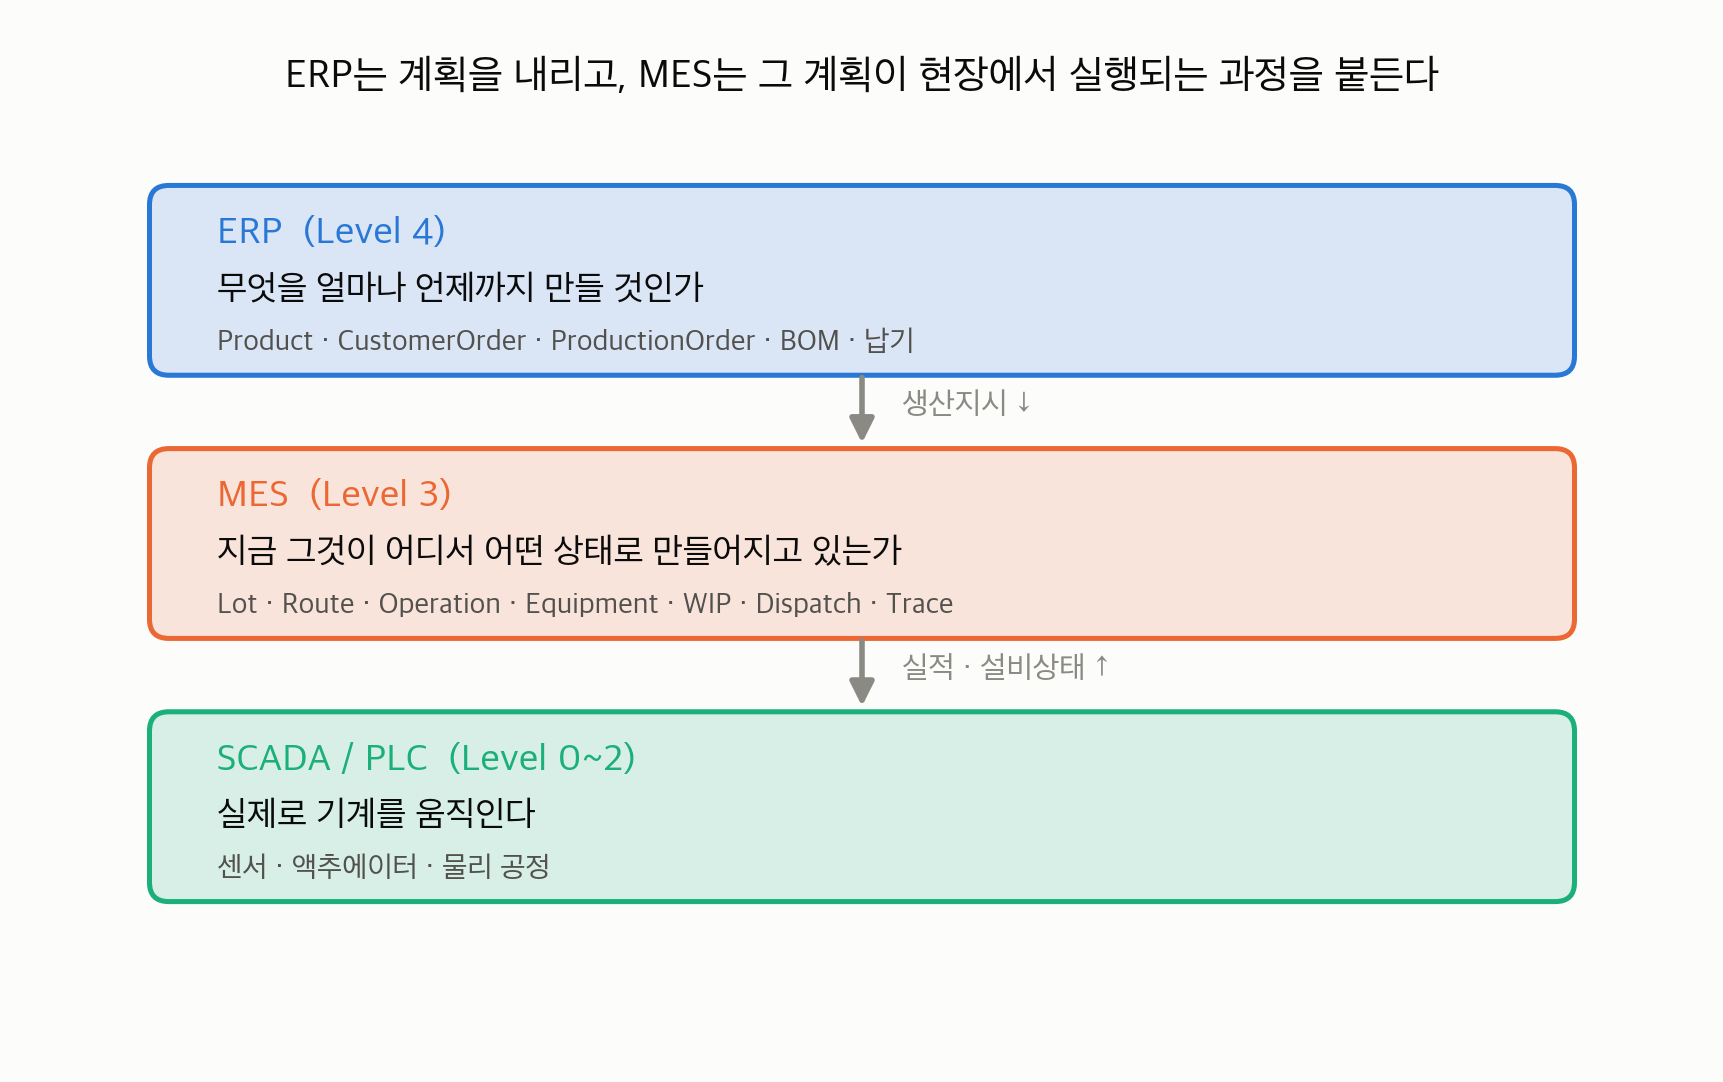
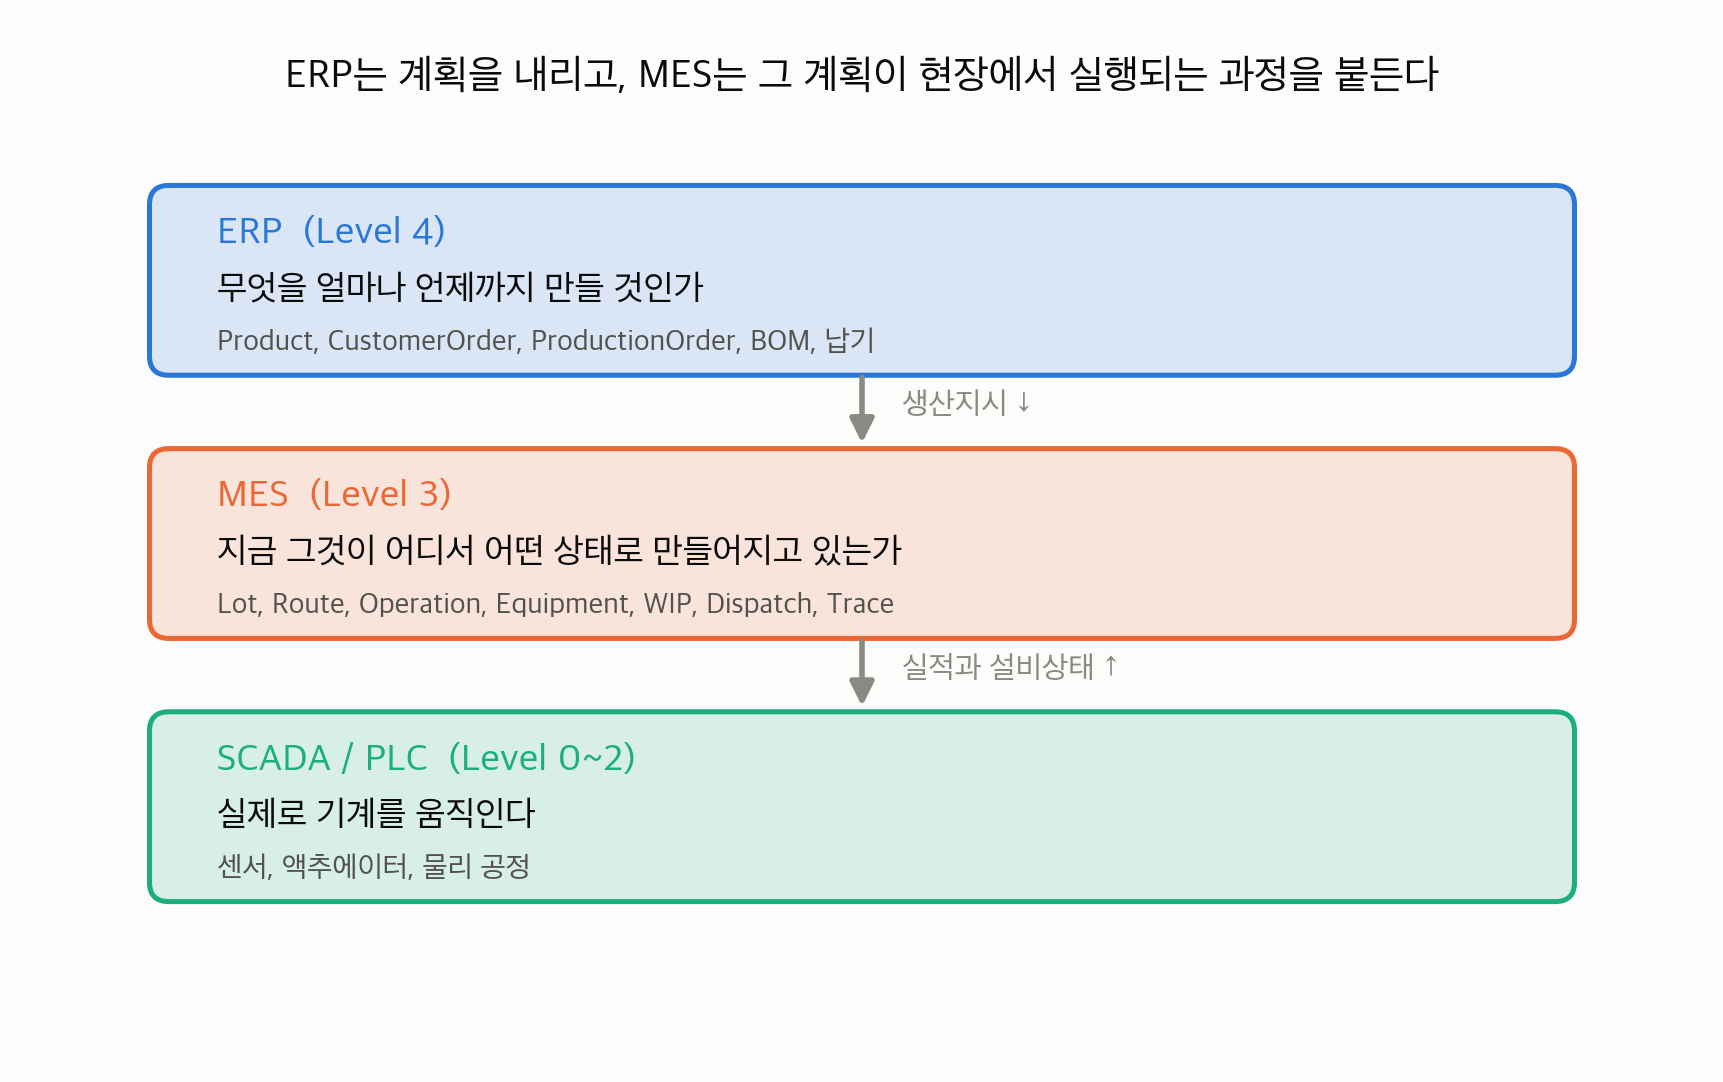
Fix: 가운뎃점을 레포 전역에서 제거하고 검사 범위를 넓혔다
검사기가 _posts 만 보고 있어서 도식 스크립트의 라벨을 놓쳤다.
MES 계층도와 선택도 그래프 이미지 안에 가운뎃점이 구워져 있었고, 두 도식을 다시 생성했다.
검사기에 레포 전역 금지 문자 스캔을 붙이니 selectivity_demo.py 의 낫표도 같이 잡혔다.

diff --git a/_includes/seo.html b/_includes/seo.html
@@ -123,7 +123,7 @@
 
 {% comment %}
   글 페이지에는 BlogPosting 구조화 데이터를 붙인다.
-  검색엔진과 생성형 엔진이 제목·게시일·수정일·저자·본문을 기계적으로 읽을 수 있게 한다.
+  검색엔진과 생성형 엔진이 제목과 게시일, 수정일, 저자, 본문을 기계적으로 읽을 수 있게 한다.
 {% endcomment %}
 {% if page.layout == "single" and page.date %}
 <script type="application/ld+json">

diff --git a/scripts/check_style.py b/scripts/check_style.py
@@ -1,7 +1,7 @@
 #!/usr/bin/env python3
 """글 문체 검사기 — 발행 전에 반드시 통과시킨다.
 
-    python3 scripts/check_style.py                 # _posts 전체
+    python3 scripts/check_style.py                 # _posts 전체 + 레포 전역 금지문자
     python3 scripts/check_style.py _posts/x.md     # 특정 글
 
 기준은 기존 글에서 뽑은 것이다. 자세한 배경은 _drafts/_TEMPLATE.md 참조.
@@ -34,11 +34,10 @@ def check(path):
     fails, warns = [], []
 
     # ── 금지 문자 ────────────────────────────────────────────────
-    if "·" in b:
-        fails.append(f"가운뎃점(·) {b.count('·')}개 — 나열은 쉼표, 이질적 구분은 파이프(|)")
-    jp = b.count("「") + b.count("」")
-    if jp:
-        fails.append(f"일본식 괄호(「 」) {jp}개 — 큰따옴표나 백틱을 쓴다")
+    for ch, name in BANNED.items():
+        if ch in b:
+            fails.append(f"{name}(U+{ord(ch):04X}) {b.count(ch)}개 — "
+                         "나열은 쉼표, 이질적 구분은 파이프, 인용은 큰따옴표")
 
     # ── 문체 ────────────────────────────────────────────────────
     bold_all = re.findall(r"\*\*[^*]+\*\*", b)
@@ -87,6 +86,36 @@ def check(path):
     return fails, warns
 
 
+BANNED = {"\u00b7": "가운뎃점", "\u300c": "일본식 여는 낫표", "\u300d": "일본식 닫는 낫표",
+          "\u300e": "겹낫표", "\u300f": "겹낫표", "\uff62": "반각 낫표", "\uff63": "반각 낫표"}
+SCAN_DIRS = ["_posts", "_pages", "_includes", "_layouts", "_data", "_drafts",
+             "assets/code", "taac"]
+SCAN_ROOT = ["_config.yml", "llms.txt", "index.html", "README.md"]
+SCAN_EXT = (".md", ".html", ".yml", ".py", ".txt", ".js", ".scss")
+
+
+def scan_repo():
+    """금지 문자만 레포 전역에서 훑는다. 도식 스크립트의 라벨까지 잡기 위한 것이다."""
+    files = list(SCAN_ROOT)
+    for d in SCAN_DIRS:
+        for root, _, names in os.walk(d):
+            files += [os.path.join(root, n) for n in names if n.endswith(SCAN_EXT)]
+    bad = 0
+    for f in sorted(set(files)):
+        if not os.path.isfile(f) or os.path.abspath(f) == os.path.abspath(__file__):
+            continue
+        try:
+            lines = open(f, encoding="utf-8").read().split("\n")
+        except (UnicodeDecodeError, OSError):
+            continue
+        for i, line in enumerate(lines, 1):
+            for ch, name in BANNED.items():
+                if ch in line:
+                    print(f"   FAIL  {f}:{i}  {name} — {line.strip()[:70]}")
+                    bad += 1
+    return bad
+
+
 def main():
     targets = sys.argv[1:] or sorted(glob.glob("_posts/*.md"))
     bad = 0
@@ -100,6 +129,13 @@ def main():
         for w in warns:
             print(f"   warn  {w}")
         bad += len(fails)
+
+    if not sys.argv[1:]:
+        print("\n── 레포 전역 금지 문자")
+        n = scan_repo()
+        print("   깨끗함" if not n else f"   {n}건")
+        bad += n
+
     print(f"\n검사 {len(targets)}건, 위반 {bad}건" if bad else
           f"\n검사 {len(targets)}건, 위반 없음")
     return 1 if bad else 0

diff --git a/assets/code/mes_figs.py b/assets/code/mes_figs.py
@@ -45,11 +45,11 @@ fig, ax = plt.subplots(figsize=(10.4, 5.8))
 ax.set_xlim(0, 10); ax.set_ylim(0, 5.6); ax.axis("off")
 rows = [
     (4.10, "ERP  (Level 4)", "무엇을 얼마나 언제까지 만들 것인가", BLUE,
-     "Product · CustomerOrder · ProductionOrder · BOM · 납기"),
+     "Product, CustomerOrder, ProductionOrder, BOM, 납기"),
     (2.45, "MES  (Level 3)", "지금 그것이 어디서 어떤 상태로 만들어지고 있는가", ORANGE,
-     "Lot · Route · Operation · Equipment · WIP · Dispatch · Trace"),
+     "Lot, Route, Operation, Equipment, WIP, Dispatch, Trace"),
     (0.80, "SCADA / PLC  (Level 0~2)", "실제로 기계를 움직인다", AQUA,
-     "센서 · 액추에이터 · 물리 공정"),
+     "센서, 액추에이터, 물리 공정"),
 ]
 for y, title, q, col, ents in rows:
     box(ax, .6, y, 8.8, 1.15, col, col)
@@ -59,7 +59,7 @@ for y, title, q, col, ents in rows:
 for y in (4.10, 2.45):
     arrow(ax, (5.0, y), (5.0, y - .48))
 ax.text(5.25, 3.84, "생산지시 ↓", fontsize=11, color=MUTED)
-ax.text(5.25, 2.19, "실적 · 설비상태 ↑", fontsize=11, color=MUTED)
+ax.text(5.25, 2.19, "실적과 설비상태 ↑", fontsize=11, color=MUTED)
 ax.set_title("ERP는 계획을 내리고, MES는 그 계획이 현장에서 실행되는 과정을 붙든다",
              fontsize=14.5, pad=16)
 fig.savefig(f"{OUT}/01-layers.png", **SAVE)

diff --git a/assets/code/selectivity_demo.py b/assets/code/selectivity_demo.py
@@ -8,8 +8,8 @@
   title_df  제목에 그 단어가 든 문서 수로 판정          <- 최종 채택
 
 실제 조건 두 가지를 그대로 옮겼다.
-  · 제목매칭 문서는 매칭 수, 그다음 최신순으로 올린다
-  · 의미검색 근사는 토픽어 중심이라 고유명사에 점수를 거의 주지 않는다
+  - 제목매칭 문서는 매칭 수, 그다음 최신순으로 올린다
+  - 의미검색 근사는 토픽어 중심이라 고유명사에 점수를 거의 주지 않는다
 """
 import re, collections, random
 
@@ -86,7 +86,7 @@ if __name__ == "__main__":
     for q, gold in QUERIES:
         gi = next((i for i,(t,_,_) in enumerate(DOCS) if t == gold), None)
         if gi is None: continue
-        print(f'\n질의 "{q}"   정답 「{gold}」')
+        print(f'\n질의 "{q}"   정답 "{gold}"')
         for rule in ["none", "df", "title_df"]:
             order, terms, npro = rank(q, rule)
             print("   %-9s 정답 %2d위   승격 %2d건   구별어=%s"

diff --git a/assets/code/tool_selection_demo.py b/assets/code/tool_selection_demo.py
@@ -173,12 +173,12 @@ def run(mode, levels, trials, queries):
 
 if __name__ == "__main__":
     if "--pilot" in sys.argv:
-        print(f"파일럿: {MODEL} · 도구풀 {len(DISTRACTORS)+len(TARGETS)}개")
+        print(f"파일럿: {MODEL} | 도구풀 {len(DISTRACTORS)+len(TARGETS)}개")
         run("full", [20, 300], 1, QUERIES)
         sys.exit(0)
 
     res = []
-    print(f"모델 {MODEL} · 도구풀 {len(DISTRACTORS)+len(TARGETS)}개 · 질의 {len(QUERIES)}종")
+    print(f"모델 {MODEL} | 도구풀 {len(DISTRACTORS)+len(TARGETS)}개 | 질의 {len(QUERIES)}종")
     print("=== 조건 A: N개를 전부 프롬프트에 ===")
     res += run("full", LEVELS, TRIALS, QUERIES)
     print(f"=== 조건 B: BM25 top-{TOPK} 로 추린 뒤 ===")

diff --git a/assets/code/selectivity_figs.py b/assets/code/selectivity_figs.py
@@ -37,7 +37,7 @@ for ax, key, title, thr, thrlab in [
     ax.set_title(title, fontsize=13, pad=10)
 axes[0].set_ylabel("문서 수")
 h=[plt.Rectangle((0,0),1,1,color=col[k]) for k in ["구조어","토픽어","구별어"]]
-fig.legend(h,["구조어 (보고서·지침…)","토픽어 (안전·품질…)","구별어 (시스템명)"],
+fig.legend(h,["구조어 (보고서, 지침…)","토픽어 (안전, 품질…)","구별어 (시스템명)"],
            loc="lower center", ncol=3, frameon=False, fontsize=11)
 fig.suptitle("df 로 재면 구조어가 토픽어보다 희귀해 보인다 — 선택도 판정이 뒤집힌다", fontsize=14.5)
 fig.tight_layout(rect=[0,0.07,1,0.92])

diff --git a/assets/code/lex_demo.py b/assets/code/lex_demo.py
@@ -105,7 +105,7 @@ if __name__ == "__main__":
         "lex 2-pass":   lex,
     }
     out = defaultdict(list)
-    print("== 실험 1·2: 시드 10회 반복 ==")
+    print("== 실험 1과 2: 시드 10회 반복 ==")
     for name, fn in modes.items():
         for sd in seeds:
             r = fn(sd)

diff --git a/_drafts/_TEMPLATE.md b/_drafts/_TEMPLATE.md
@@ -69,9 +69,9 @@ header:
   ── 문체 규칙 ───────────────────────────────────────────────────
   1. 평서체 '~다'로 쓴다. 한 문장을 한 줄에 두고 줄 끝에 공백 2칸을 둔다
   2. 실패한 과정을 지우지 않는다. 처음의 오해를 그대로 남긴다
-  3. 가운뎃점(·)은 어디에도 쓰지 않는다
+  3. 가운뎃점 (U+00B7) 은 어디에도 쓰지 않는다
        같은 급 나열은 쉼표, 이질적 항목 구분은 파이프(|)
-  4. 일본식 괄호(「 」)는 어디에도 쓰지 않는다
+  4. 일본식 낫표 (U+300C, U+300D) 와 겹낫표 (U+300E, U+300F) 는 어디에도 쓰지 않는다
        인용과 강조는 큰따옴표, 코드와 식별자는 백틱
   5. 한 문장 안에서 '~가 ~해서 ~함'으로 원인과 판단, 결과를 잇지 않는다
   6. 볼드는 본문 8개 안팎. 핵심 결론에만 쓴다
